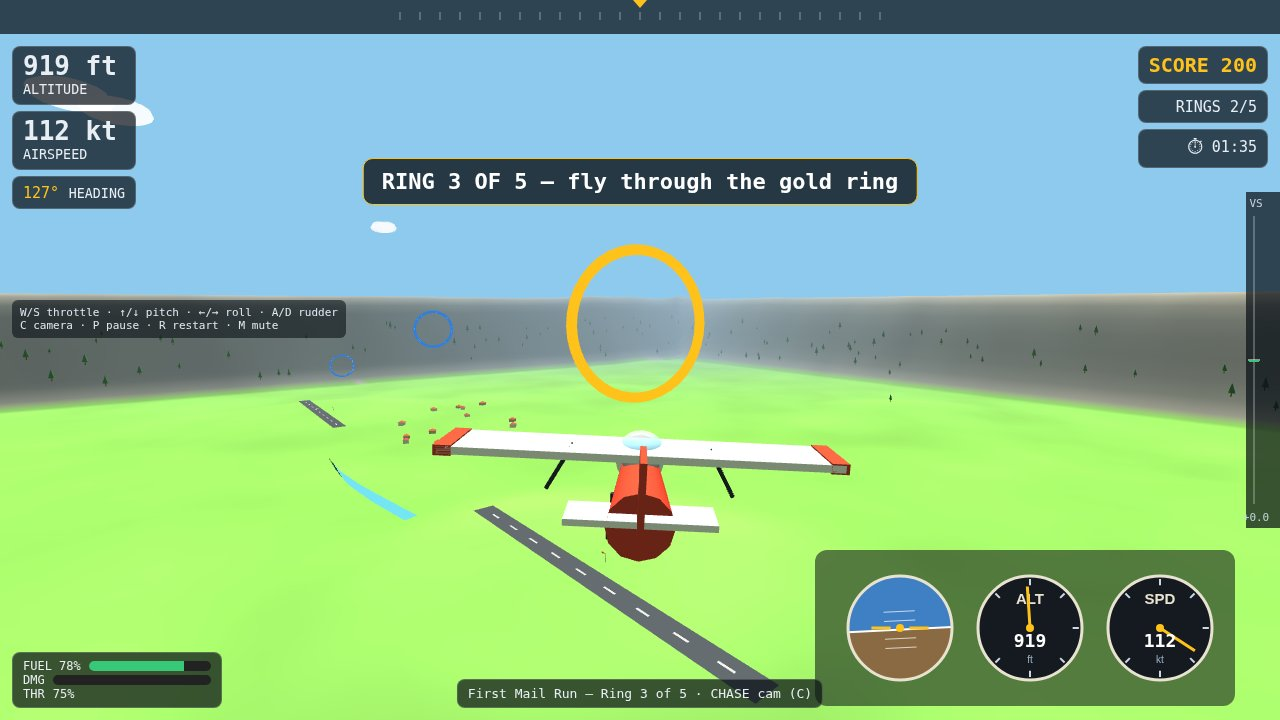
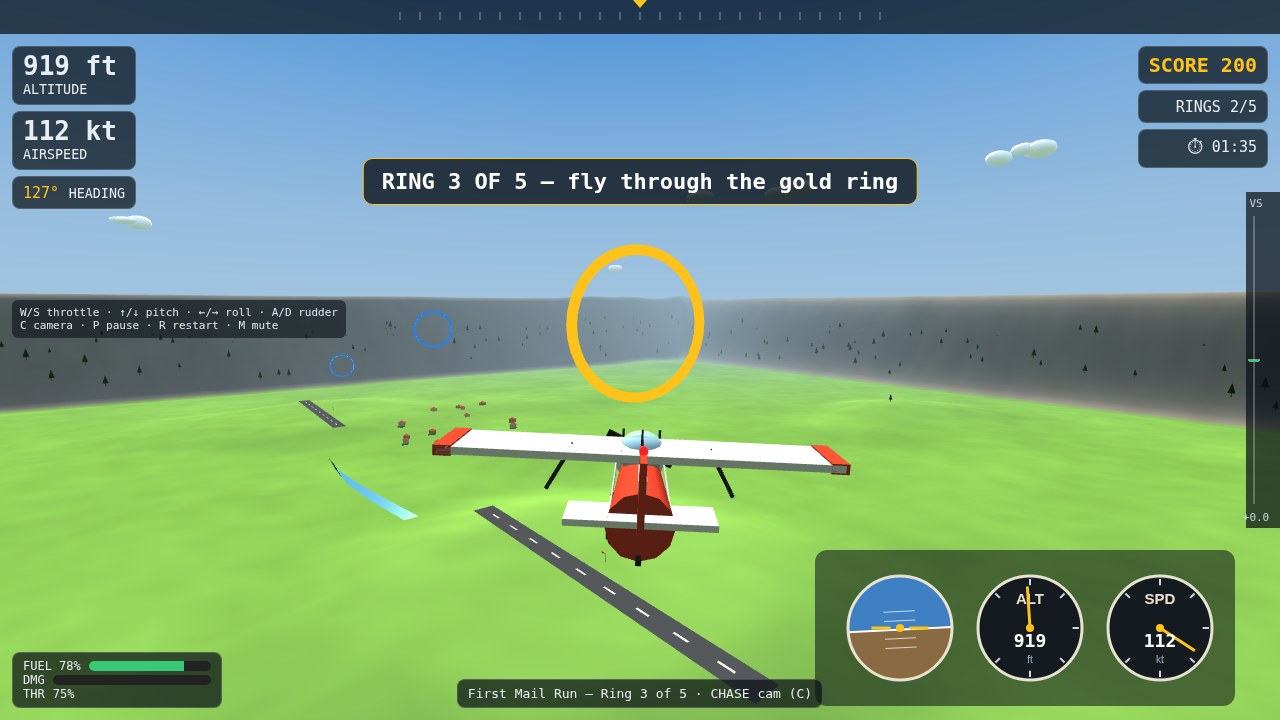
Ridge Runner v2: richer 3D visuals — finer terrain with scree band and texture noise, gradient sky dome, sun glow, golden-hour lighting, Phong water, shaded clouds, rocks and varied pines; more detailed airframe (spinner, cheatline, tail wheel, antenna wire, beacon, exhausts, pitot)

diff --git a/game/src/terrain.js b/game/src/terrain.js
@@ -44,14 +44,22 @@ function colourFor(h, slope, x, z) {
   else if (h > 330 || slope > 0.55) c.setHex(COLOURS.rock);
   else if (h > 150) c.setHex(COLOURS.grassHigh).lerp(new THREE.Color(COLOURS.rock), (h - 150) / 420);
   else c.setHex(COLOURS.grassLow).lerp(new THREE.Color(COLOURS.grassHigh), h / 220);
+  // Scree band: steep slopes just below the snowline lighten to grey-tan.
+  if (h > 380 && h <= 470 && slope > 0.35) {
+    const screeT = smoothstep(0.35, 0.75, slope) * smoothstep(380, 430, h);
+    c.lerp(new THREE.Color(0xb8ab94), screeT * 0.65);
+  }
   // Patchy meadow variation so the valley floor is not one flat green.
   const v = 0.88 + 0.24 * (fbm(x * 0.004 + 31, z * 0.004 + 17, 3) * 0.5 + 0.5);
   c.multiplyScalar(v);
+  // Second, finer noise octave for close-up texture feel (±8% brightness).
+  const fine = 0.92 + 0.16 * (fbm(x * 0.02 + 53, z * 0.02 + 71, 2) * 0.5 + 0.5);
+  c.multiplyScalar(fine);
   return c;
 }
 
 function buildGround(scene) {
-  const seg = 160;
+  const seg = 220;
   const geo = new THREE.PlaneGeometry(WORLD.size, WORLD.size, seg, seg);
   geo.rotateX(-Math.PI / 2);
   const pos = geo.attributes.position;
@@ -73,7 +81,9 @@ function buildGround(scene) {
 }
 
 function buildWater(scene) {
-  const mat = new THREE.MeshLambertMaterial({ color: COLOURS.river, transparent: true, opacity: 0.92 });
+  const mat = new THREE.MeshPhongMaterial({
+    color: COLOURS.river, transparent: true, opacity: 0.92, shininess: 120, specular: 0xbfe3ff,
+  });
   // River ribbon following riverZ.
   const pts = [];
   for (let x = -2100; x <= 2100; x += 100) pts.push(new THREE.Vector3(x, 43.5, riverZ(x)));
@@ -94,7 +104,9 @@ function buildWater(scene) {
   scene.add(new THREE.Mesh(ribbon, mat));
   // Lake disc.
   const lake = new THREE.Mesh(new THREE.CircleGeometry(LAKE.r, 40),
-    new THREE.MeshLambertMaterial({ color: COLOURS.lake, transparent: true, opacity: 0.94 }));
+    new THREE.MeshPhongMaterial({
+      color: COLOURS.lake, transparent: true, opacity: 0.94, shininess: 120, specular: 0xbfe3ff,
+    }));
   lake.rotation.x = -Math.PI / 2;
   lake.position.set(LAKE.x, 51, LAKE.z);
   scene.add(lake);
@@ -121,14 +133,55 @@ function buildForest(scene) {
   const trunks = new THREE.InstancedMesh(trunkGeo, trunkMat, spots.length);
   const cones = new THREE.InstancedMesh(coneGeo, leafMat, spots.length);
   const m = new THREE.Matrix4(); const q = new THREE.Quaternion(); const v = new THREE.Vector3(); const sc = new THREE.Vector3();
+  const coneColour = new THREE.Color();
   spots.forEach((p, i) => {
     q.setFromAxisAngle(new THREE.Vector3(0, 1, 0), rng.next() * Math.PI * 2);
     sc.setScalar(p.s);
     m.compose(v.set(p.x, p.h + 3 * p.s, p.z), q, sc); trunks.setMatrixAt(i, m);
     m.compose(v.set(p.x, p.h + (6 + 8) * p.s, p.z), q, sc); cones.setMatrixAt(i, m);
+    // Per-instance green variation so the forest is not one flat colour.
+    coneColour.setHex(0x2e5d2a);
+    coneColour.offsetHSL(rng.range(-0.03, 0.03), rng.range(-0.08, 0.08), rng.range(-0.05, 0.07));
+    cones.setColorAt(i, coneColour);
   });
+  if (cones.instanceColor) cones.instanceColor.needsUpdate = true;
   trunks.castShadow = true; cones.castShadow = true;
   scene.add(trunks); scene.add(cones);
+}
+
+function buildRocks(scene) {
+  const rng = makeRng(WORLD.seed + 37);
+  const rockGeo = new THREE.DodecahedronGeometry(1, 0);
+  const rockMat = new THREE.MeshLambertMaterial({ color: 0x8a8378 });
+  const spots = [];
+  let guard = 0;
+  while (spots.length < 120 && guard < 20000) {
+    guard += 1;
+    const x = rng.range(-2000, 2000); const z = rng.range(-2000, 2000);
+    const h = heightAt(x, z);
+    if (h < 200 || h > 520) continue;
+    const slope = Math.abs(heightAt(x + 8, z) - h) / 8 + Math.abs(heightAt(x, z + 8) - h) / 8;
+    if (slope < 0.45) continue;
+    if (Math.abs(z - riverZ(x)) < 90) continue;
+    if (Math.hypot(x - LAKE.x, z - LAKE.z) < LAKE.r + 40) continue;
+    if (STRIPS.some((s) => Math.hypot(x - s.x, z - s.z) < 330)) continue;
+    spots.push({ x, z, h, r: rng.range(1.5, 4) });
+  }
+  const rocks = new THREE.InstancedMesh(rockGeo, rockMat, spots.length);
+  const m = new THREE.Matrix4(); const q = new THREE.Quaternion(); const v = new THREE.Vector3(); const sc = new THREE.Vector3();
+  const rockColour = new THREE.Color();
+  spots.forEach((p, i) => {
+    q.setFromEuler(new THREE.Euler(rng.next() * Math.PI, rng.next() * Math.PI, rng.next() * Math.PI));
+    sc.set(p.r * rng.range(0.8, 1.3), p.r * rng.range(0.6, 1), p.r * rng.range(0.8, 1.3));
+    m.compose(v.set(p.x, p.h + p.r * 0.25, p.z), q, sc);
+    rocks.setMatrixAt(i, m);
+    rockColour.setHex(0x8a8378);
+    rockColour.offsetHSL(0, rng.range(-0.03, 0.03), rng.range(-0.06, 0.06));
+    rocks.setColorAt(i, rockColour);
+  });
+  if (rocks.instanceColor) rocks.instanceColor.needsUpdate = true;
+  rocks.castShadow = true;
+  scene.add(rocks);
 }
 
 function buildVillage(scene, cx, cz, count, seedOff) {
@@ -203,15 +256,21 @@ function buildStrip(scene, strip, windsocks) {
 
 function buildClouds(scene) {
   const rng = makeRng(WORLD.seed + 23);
-  const mat = new THREE.MeshBasicMaterial({ color: 0xffffff, transparent: true, opacity: 0.92 });
+  const mat = new THREE.MeshLambertMaterial({
+    color: 0xffffff, transparent: true, opacity: 0.95, emissive: 0x555f6a,
+  });
   const clouds = [];
-  for (let i = 0; i < 16; i += 1) {
+  for (let i = 0; i < 26; i += 1) {
     const g = new THREE.Group();
     const puffs = rng.int(3, 5);
     for (let p = 0; p < puffs; p += 1) {
       const s = new THREE.Mesh(new THREE.SphereGeometry(rng.range(18, 34), 10, 8), mat);
-      s.scale.y = 0.45;
-      s.position.set(rng.range(-40, 40), rng.range(-4, 4), rng.range(-18, 18));
+      // Vary puff flattening more; lower puffs keep a bit more volume.
+      const py = rng.range(-4, 4);
+      s.scale.y = py < 0 ? rng.range(0.55, 0.75) : rng.range(0.35, 0.6);
+      s.scale.x = rng.range(0.85, 1.3);
+      s.scale.z = rng.range(0.85, 1.2);
+      s.position.set(rng.range(-40, 40), py, rng.range(-18, 18));
       g.add(s);
     }
     g.position.set(rng.range(-2000, 2000), rng.range(480, 720), rng.range(-2000, 2000));
@@ -255,17 +314,54 @@ export function buildRings(scene, positions) {
   };
 }
 
+function buildSkyDome(scene) {
+  // Gradient sky dome: horizon fog colour up to a deeper zenith blue.
+  const geo = new THREE.SphereGeometry(5200, 24, 16);
+  const pos = geo.attributes.position;
+  const colours = new Float32Array(pos.count * 3);
+  const horizon = new THREE.Color(COLOURS.fog);
+  const zenith = new THREE.Color(0x4a90d9);
+  const tmp = new THREE.Color();
+  for (let i = 0; i < pos.count; i += 1) {
+    const y = pos.getY(i) / 5200;
+    const t = Math.min(1, Math.max(0, y * 1.6 + 0.12));
+    tmp.copy(horizon).lerp(zenith, t * t);
+    colours[i * 3] = tmp.r; colours[i * 3 + 1] = tmp.g; colours[i * 3 + 2] = tmp.b;
+  }
+  geo.setAttribute('color', new THREE.BufferAttribute(colours, 3));
+  const dome = new THREE.Mesh(geo, new THREE.MeshBasicMaterial({
+    vertexColors: true, fog: false, side: THREE.BackSide,
+  }));
+  scene.add(dome);
+}
+
+function makeSunGlowTexture() {
+  const size = 256;
+  const cv = document.createElement('canvas');
+  cv.width = size; cv.height = size;
+  const ctx = cv.getContext('2d');
+  const grad = ctx.createRadialGradient(size / 2, size / 2, 0, size / 2, size / 2, size / 2);
+  grad.addColorStop(0, 'rgba(255,244,200,0.85)');
+  grad.addColorStop(0.25, 'rgba(255,230,160,0.45)');
+  grad.addColorStop(0.6, 'rgba(255,210,120,0.14)');
+  grad.addColorStop(1, 'rgba(255,210,120,0)');
+  ctx.fillStyle = grad;
+  ctx.fillRect(0, 0, size, size);
+  return new THREE.CanvasTexture(cv);
+}
+
 export function buildWorld(scene) {
   scene.background = new THREE.Color(COLOURS.sky);
   scene.fog = new THREE.Fog(COLOURS.fog, WORLD.fogNear, WORLD.fogFar);
-  const hemi = new THREE.HemisphereLight(0xcfe8ff, 0x5d7a4a, 0.85);
+  buildSkyDome(scene);
+  const hemi = new THREE.HemisphereLight(0xbfd9ff, 0x5d7a4a, 0.75);
   scene.add(hemi);
-  const sun = new THREE.DirectionalLight(COLOURS.sun, 1.35);
-  sun.position.set(900, 1400, 600);
+  const sun = new THREE.DirectionalLight(0xffe3b3, 1.5);
+  sun.position.set(1100, 950, 500);
   sun.castShadow = true;
   sun.shadow.mapSize.set(2048, 2048);
-  sun.shadow.camera.left = -260; sun.shadow.camera.right = 260;
-  sun.shadow.camera.top = 260; sun.shadow.camera.bottom = -260;
+  sun.shadow.camera.left = -620; sun.shadow.camera.right = 620;
+  sun.shadow.camera.top = 620; sun.shadow.camera.bottom = -620;
   sun.shadow.camera.far = 4000;
   scene.add(sun);
   // Sun disc in the sky.
@@ -274,10 +370,18 @@ export function buildWorld(scene) {
   disc.position.set(1500, 1150, -2600);
   disc.lookAt(0, 0, 0);
   scene.add(disc);
+  // Soft glow sprite around the sun disc.
+  const glow = new THREE.Sprite(new THREE.SpriteMaterial({
+    map: makeSunGlowTexture(), transparent: true, depthWrite: false, fog: false,
+  }));
+  glow.position.copy(disc.position);
+  glow.scale.setScalar(700);
+  scene.add(glow);
 
   buildGround(scene);
   buildWater(scene);
   buildForest(scene);
+  buildRocks(scene);
   buildVillage(scene, HOME_STRIP.x + 260, HOME_STRIP.z + 320, 16, 31);
   buildVillage(scene, LAKE_STRIP.x - 300, LAKE_STRIP.z + 260, 13, 47);
   const windsocks = [];

diff --git a/game/src/aircraft.js b/game/src/aircraft.js
@@ -28,6 +28,17 @@ export function buildAircraft() {
   canopy.scale.set(1, 0.85, 1.5);
   canopy.position.set(0, 0.75, -0.9);
   plane.add(canopy);
+  // Canopy frame rails: thin dark boxes hugging each side of the glass.
+  for (const s of [-1, 1]) {
+    const rail = new THREE.Mesh(new THREE.BoxGeometry(0.07, 0.09, 1.9), dark);
+    rail.position.set(s * 0.62, 0.82, -0.9);
+    rail.rotation.x = 0.08;
+    plane.add(rail);
+    const pillar = new THREE.Mesh(new THREE.BoxGeometry(0.07, 0.55, 0.09), dark);
+    pillar.position.set(s * 0.58, 0.95, -1.72);
+    pillar.rotation.x = -0.25;
+    plane.add(pillar);
+  }
 
   const wing = new THREE.Mesh(new THREE.BoxGeometry(11.4, 0.22, 1.9), cream);
   wing.position.set(0, 0.95, -0.4);
@@ -67,8 +78,25 @@ export function buildAircraft() {
   const hub = new THREE.Mesh(new THREE.CylinderGeometry(0.28, 0.28, 0.5, 10), dark);
   hub.rotation.x = Math.PI / 2;
   prop.add(hub);
+  // Spinner cone at the prop hub front, pointing forward (-Z).
+  const spinner = new THREE.Mesh(new THREE.ConeGeometry(0.28, 0.7, 12), cream);
+  spinner.rotation.x = -Math.PI / 2;
+  spinner.position.z = -0.55;
+  spinner.castShadow = true;
+  prop.add(spinner);
   prop.position.z = -3.75;
   plane.add(prop);
+
+  // Cheatline stripe: thin cream band along each fuselage side.
+  for (const s of [-1, 1]) {
+    const stripe = new THREE.Mesh(new THREE.BoxGeometry(0.04, 0.22, 4.6), cream);
+    stripe.position.set(s * 0.78, -0.05, 0.1);
+    plane.add(stripe);
+  }
+  // Tail fin flash: cream band across the red fin.
+  const finFlash = new THREE.Mesh(new THREE.BoxGeometry(0.2, 0.32, 1.2), cream);
+  finFlash.position.set(0, 1.15, 2.65);
+  plane.add(finFlash);
 
   // Mail pod + fixed gear.
   const pod = new THREE.Mesh(new THREE.BoxGeometry(1.1, 0.7, 2.2), cream);
@@ -85,6 +113,45 @@ export function buildAircraft() {
     wheel.castShadow = true;
     plane.add(wheel);
   }
+
+  // Tail wheel: small wheel on a leg at the rear bottom.
+  const tailLeg = new THREE.Mesh(new THREE.CylinderGeometry(0.05, 0.05, 0.55, 6), dark);
+  tailLeg.position.set(0, -0.55, 2.55);
+  tailLeg.rotation.x = 0.35;
+  plane.add(tailLeg);
+  const tailWheel = new THREE.Mesh(new THREE.CylinderGeometry(0.2, 0.2, 0.14, 10), dark);
+  tailWheel.rotation.z = Math.PI / 2;
+  tailWheel.position.set(0, -0.82, 2.65);
+  plane.add(tailWheel);
+
+  // Antenna mast on the canopy rear, with a wire line to the fin top.
+  const mast = new THREE.Mesh(new THREE.CylinderGeometry(0.03, 0.045, 0.55, 6), dark);
+  mast.position.set(0, 1.35, -0.15);
+  plane.add(mast);
+  const wireGeo = new THREE.BufferGeometry().setFromPoints([
+    new THREE.Vector3(0, 1.62, -0.15),
+    new THREE.Vector3(0, 1.72, 2.65),
+  ]);
+  const wire = new THREE.Line(wireGeo, new THREE.LineBasicMaterial({ color: 0x222222 }));
+  plane.add(wire);
+
+  // Exhaust stubs under the nose sides.
+  for (const s of [-1, 1]) {
+    const exhaust = new THREE.Mesh(new THREE.CylinderGeometry(0.09, 0.11, 0.5, 8), dark);
+    exhaust.rotation.x = Math.PI / 2 - 0.35;
+    exhaust.position.set(s * 0.55, -0.62, -3.0);
+    plane.add(exhaust);
+  }
+  // Pitot tube under the left wing.
+  const pitot = new THREE.Mesh(new THREE.CylinderGeometry(0.03, 0.03, 0.7, 6), dark);
+  pitot.rotation.x = Math.PI / 2;
+  pitot.position.set(-3.2, 0.78, -0.9);
+  plane.add(pitot);
+  // Red beacon on top of the fin.
+  const beacon = new THREE.Mesh(new THREE.SphereGeometry(0.11, 8, 6),
+    new THREE.MeshBasicMaterial({ color: 0xff2222 }));
+  beacon.position.set(0, 1.82, 2.65);
+  plane.add(beacon);
 
   // Navigation lights.
   const navL = new THREE.Mesh(new THREE.SphereGeometry(0.12, 8, 6),
